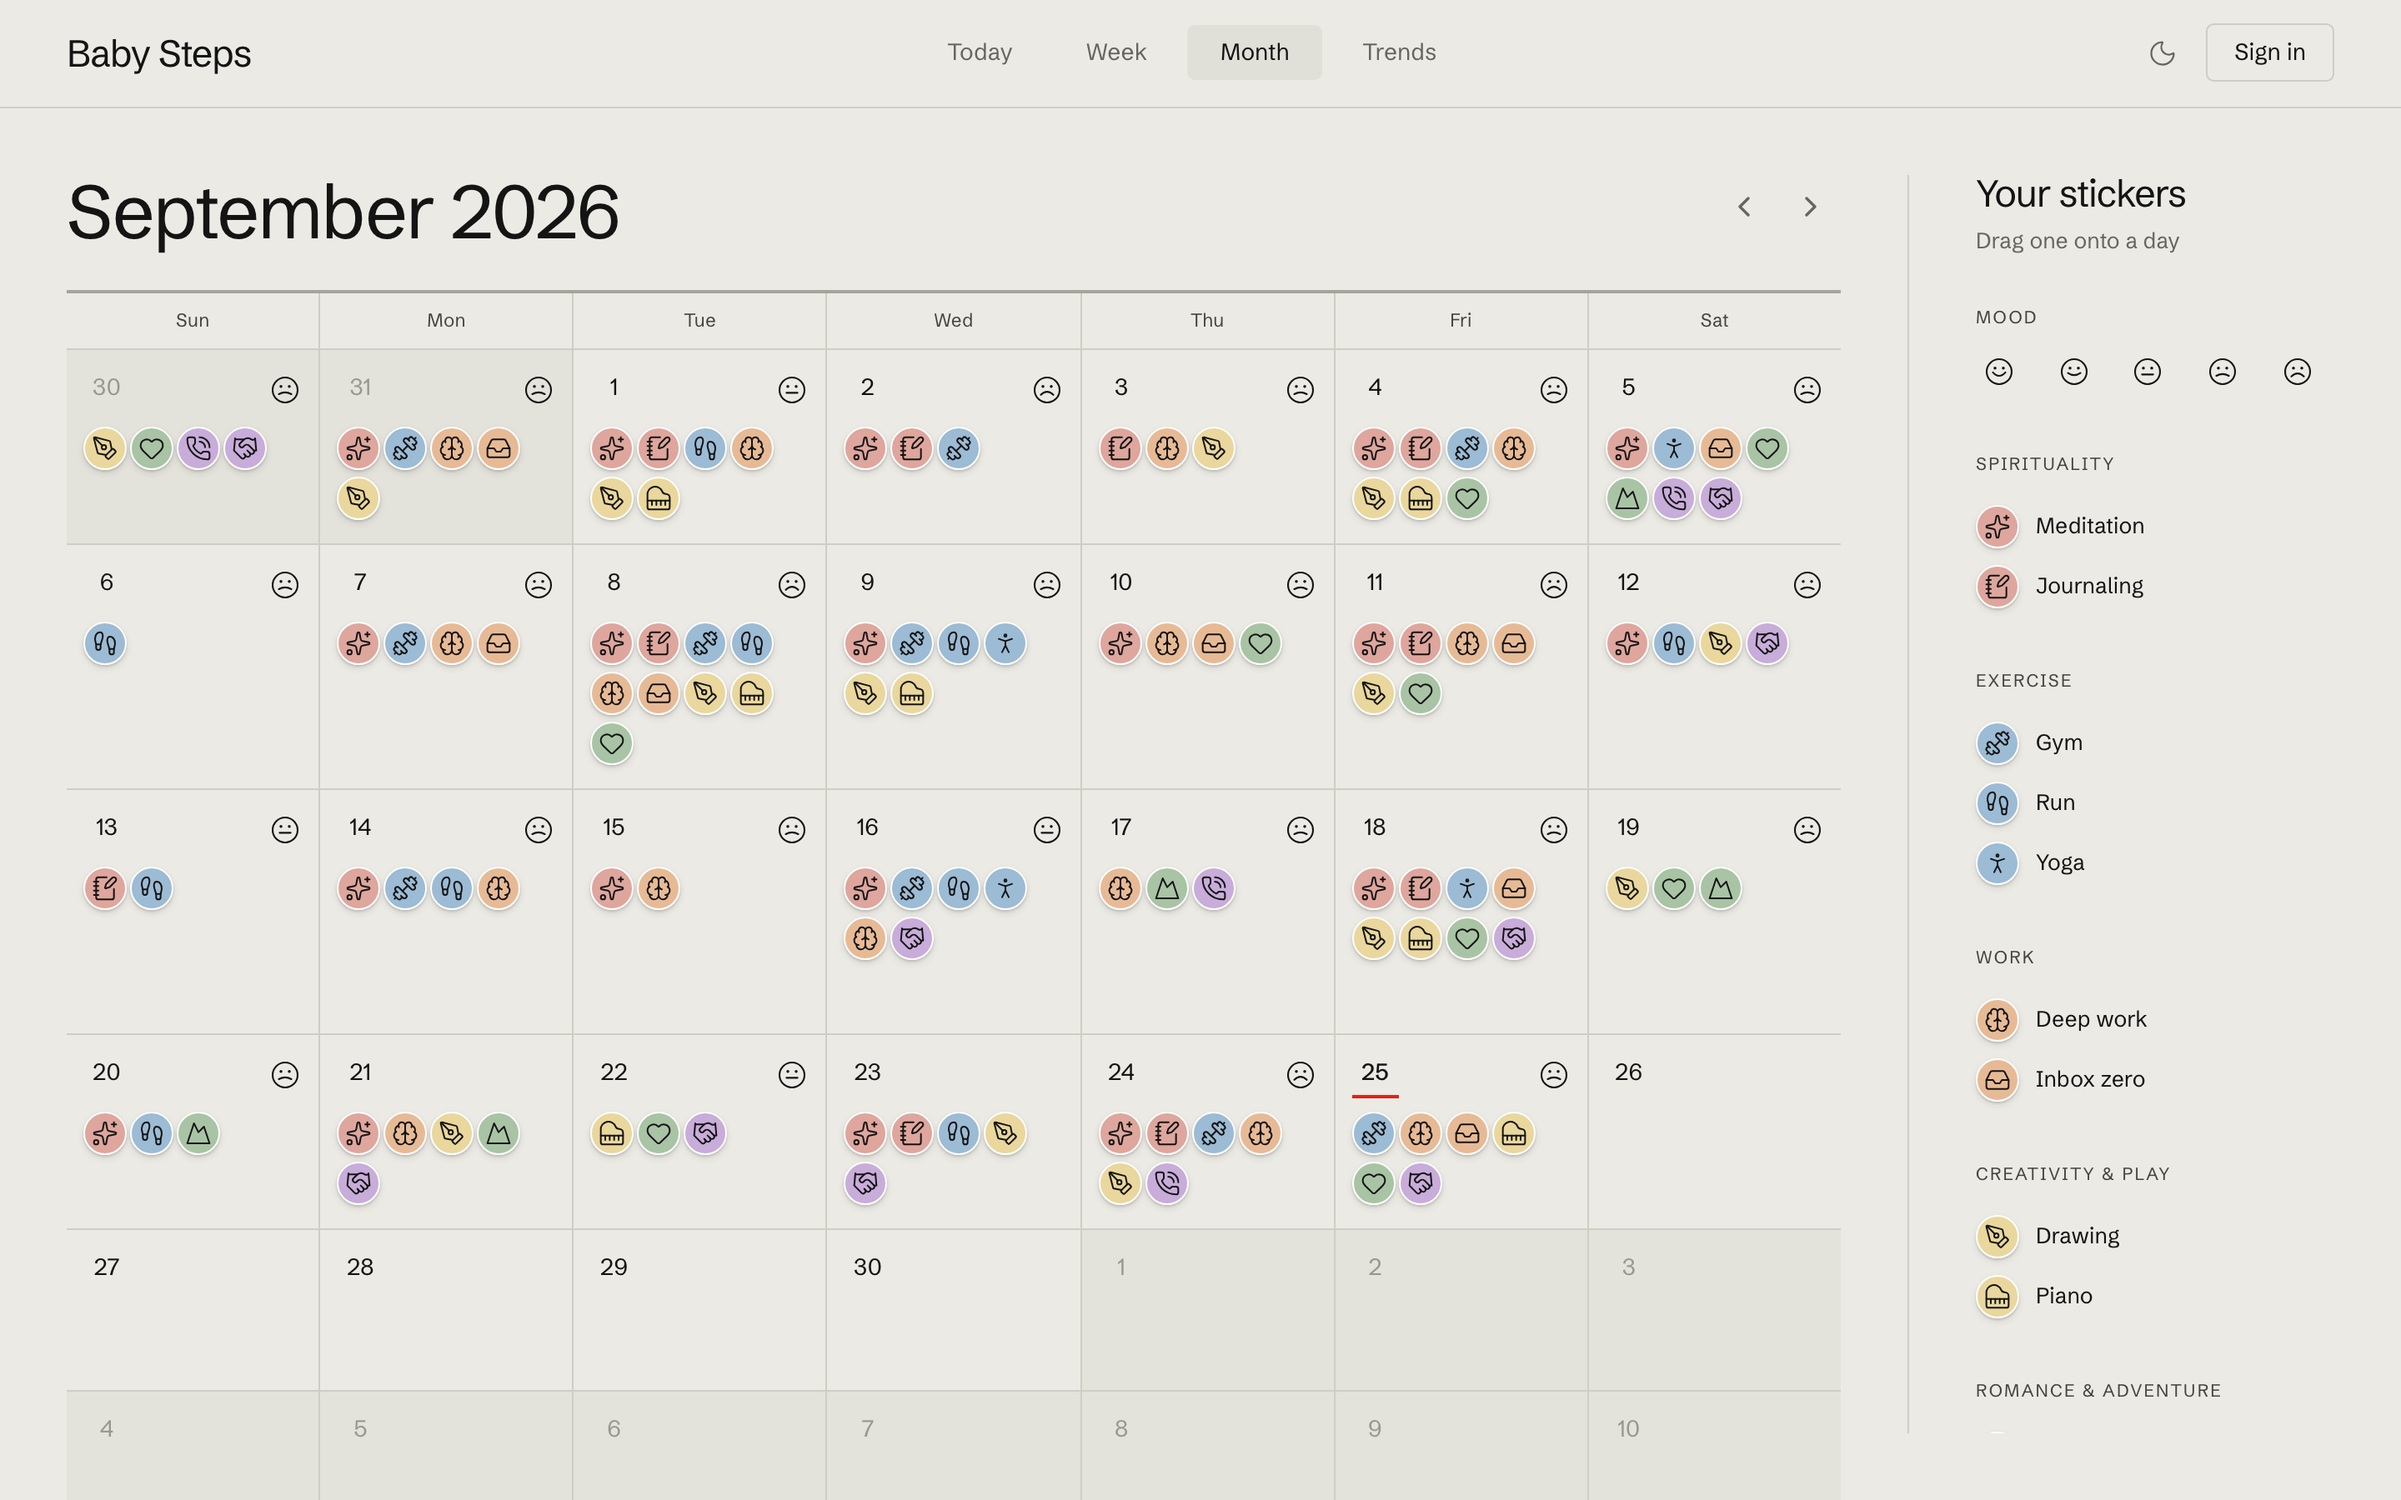
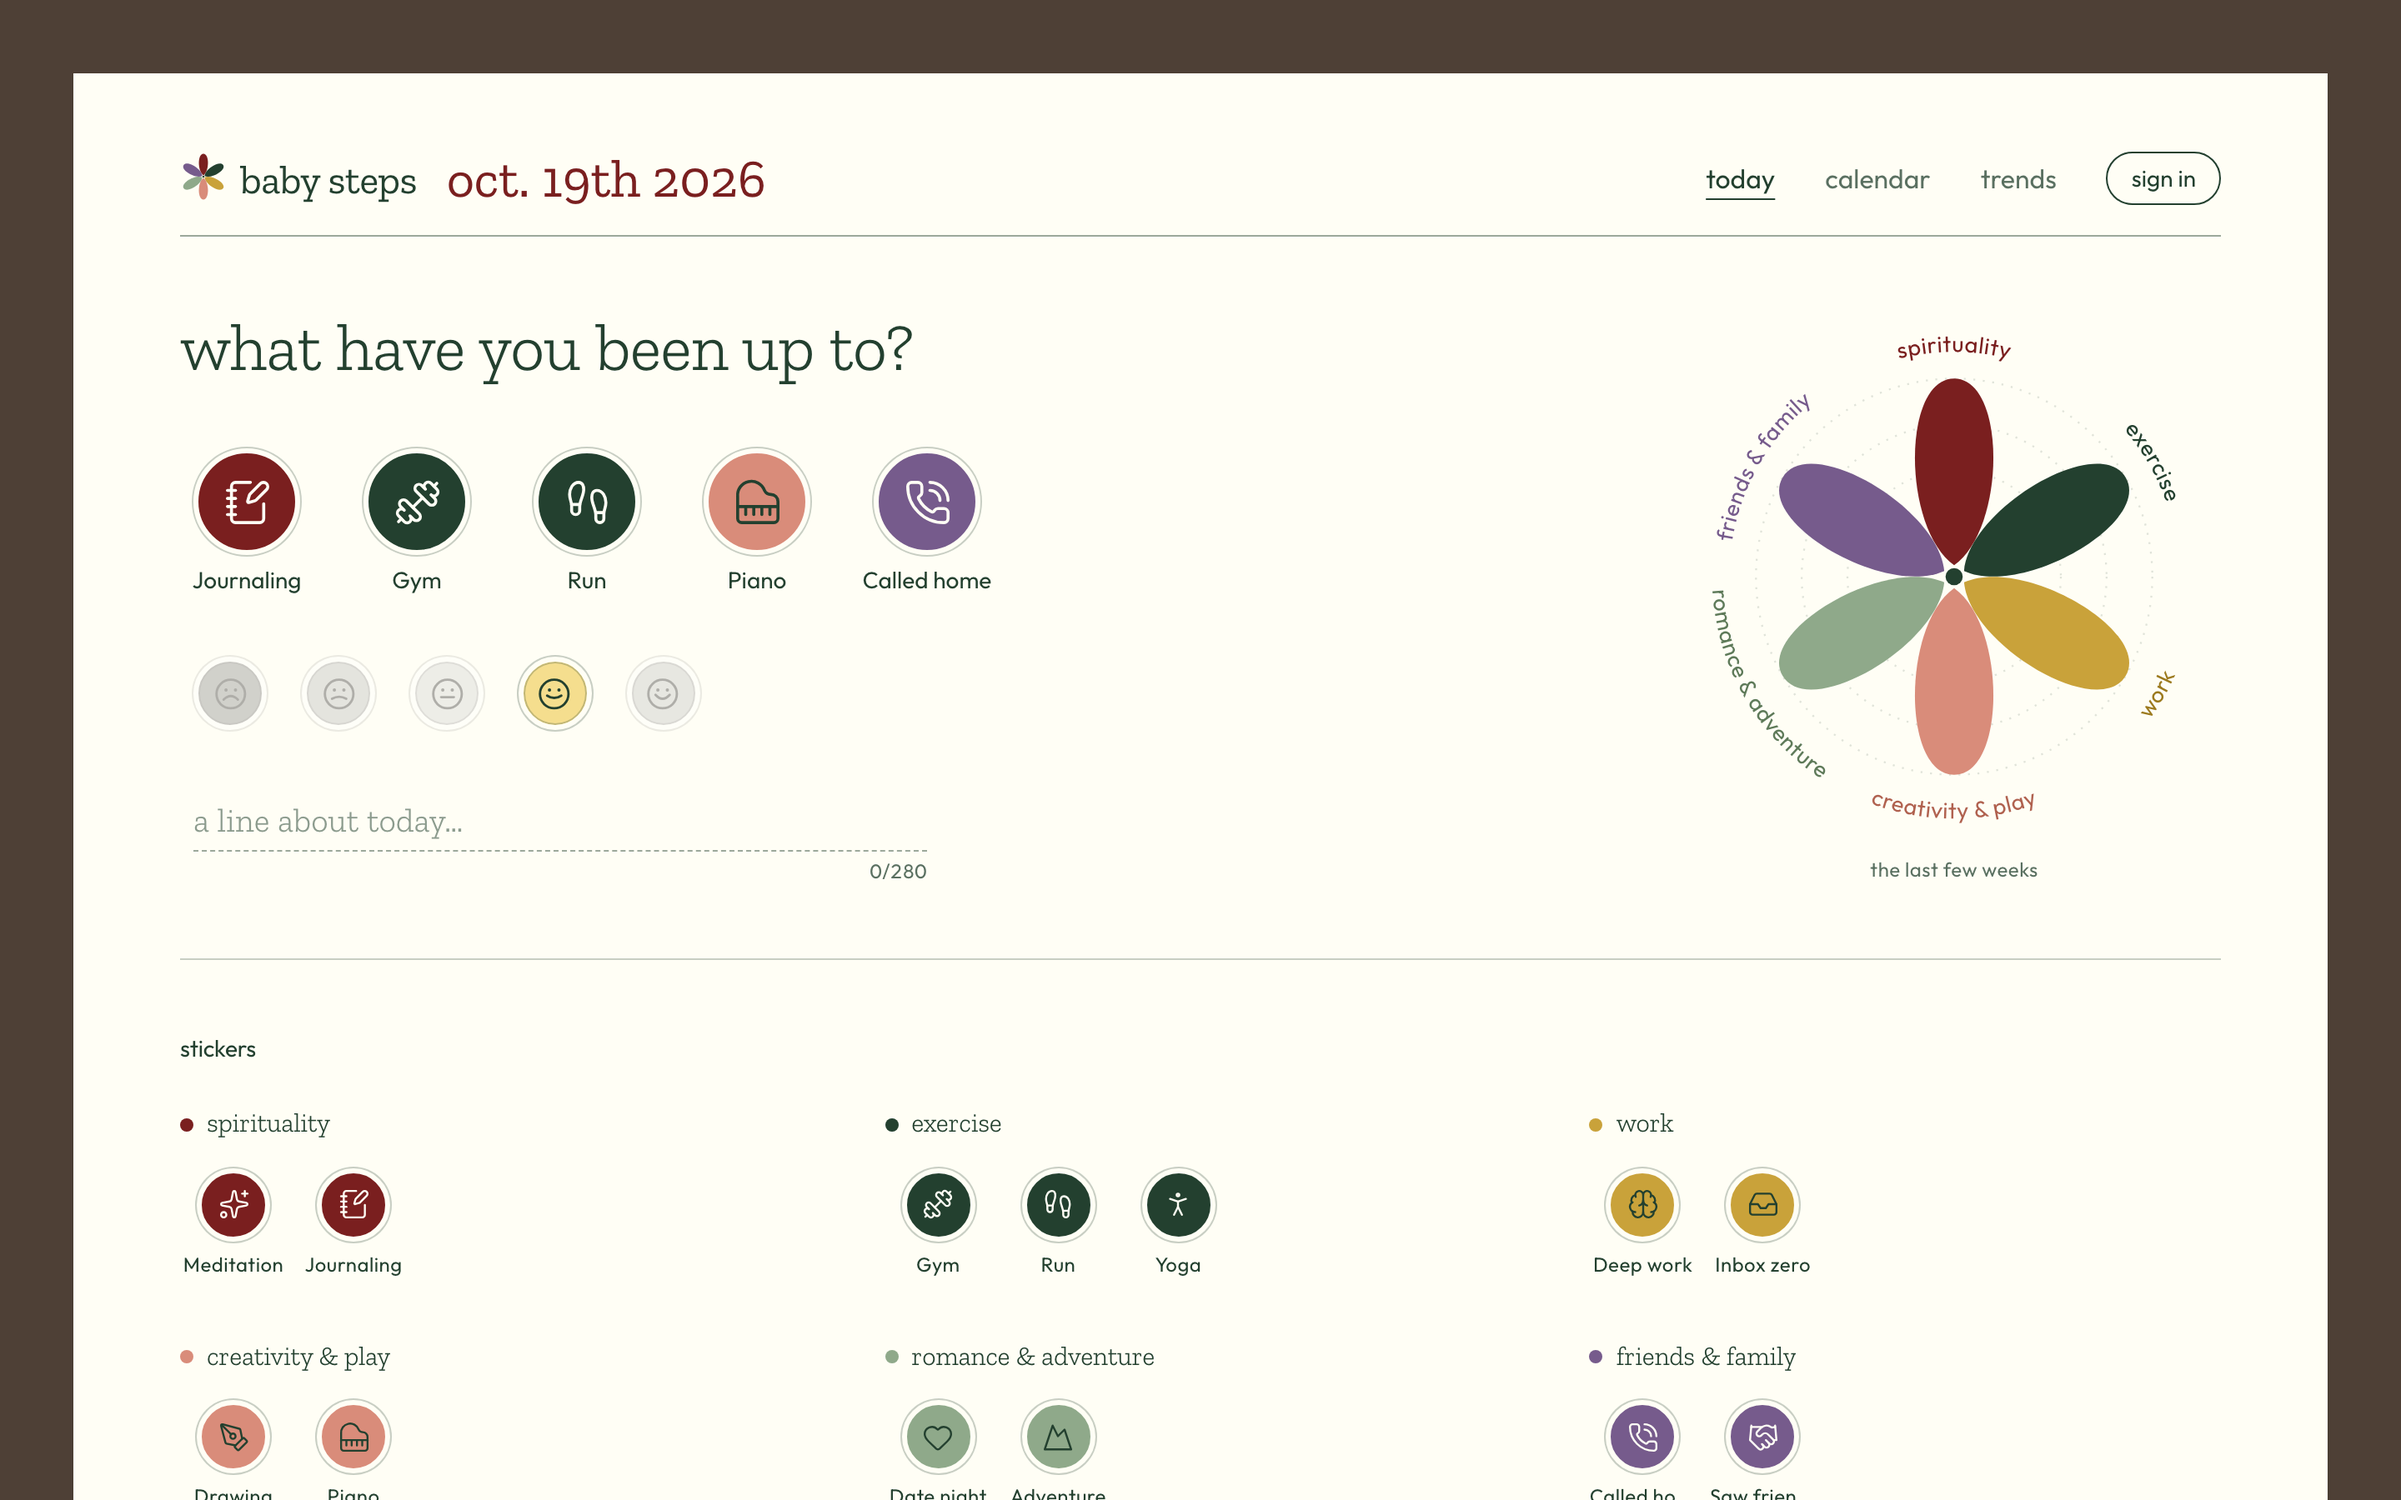
Re-shoot the Baby Steps thumbnail
The demo banner now reads "demo" rather than "This is a demo.", so the
shoot script matches on the new copy. The demo also opens on the today
view, so the alt text describes that instead of a month of stickers.

diff --git a/src/data/site.ts b/src/data/site.ts
@@ -48,7 +48,7 @@ export const project = {
   // accordion crops this to a top-left band, so the framing has to stay put.
   image: {
     src: 'assets/baby-steps/app-screenshot.png',
-    alt: 'The Baby Steps habit tracker, showing a month of stickers',
+    alt: 'The Baby Steps habit tracker, showing today’s stickers and the life-balance flower',
   },
 };
 

diff --git a/README.md b/README.md
@@ -61,7 +61,7 @@ build logs a warning), so you can write first and drop files in later.
 ## The Baby Steps thumbnail
 
 `npm run shoot:demo` drives headless Chrome to <https://baby-steps.stxphanie.com/demo>,
-removes the "This is a demo." banner so the capture starts at the app's real top edge,
+removes the "demo" banner so the capture starts at the app's real top edge,
 and writes `src/assets/baby-steps/app-screenshot.png` at a pinned 1440x900 @2x. Run it
 whenever Baby Steps changes; the framing stays identical, so only the app moves.
 
